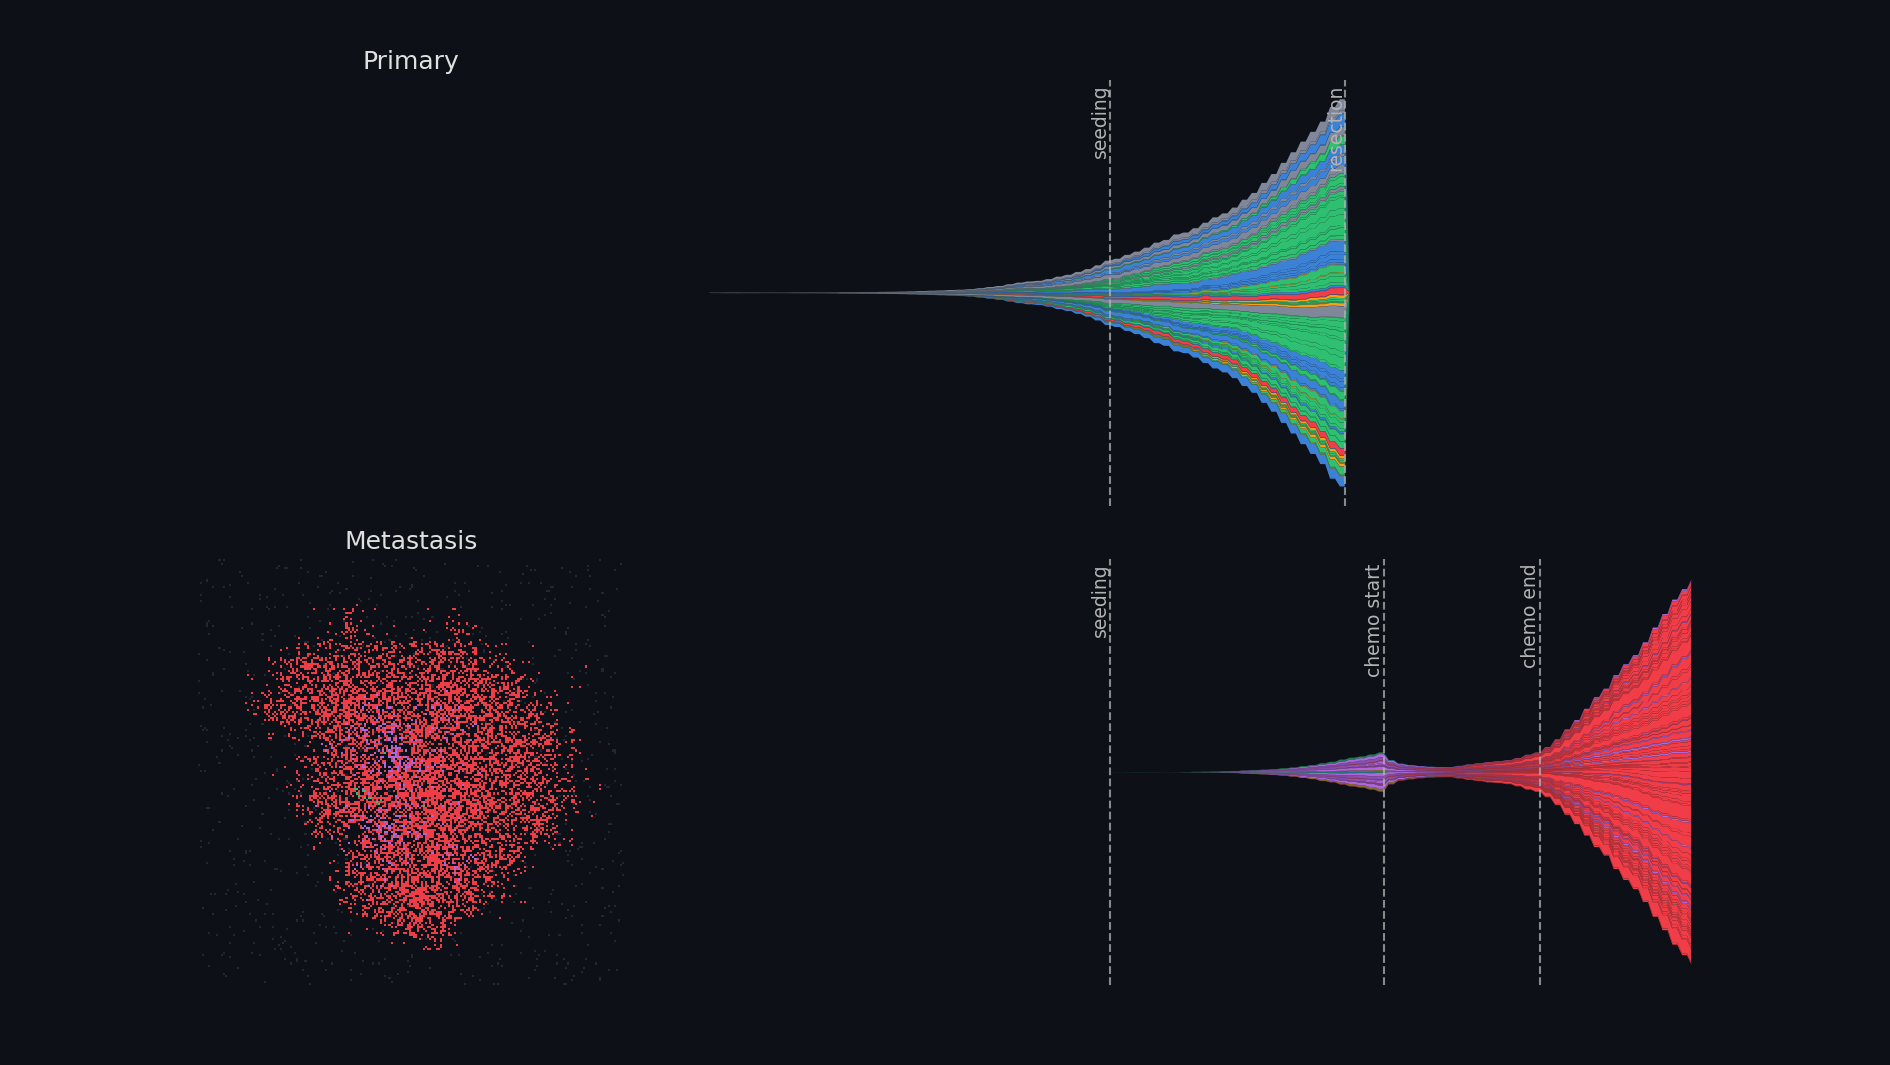
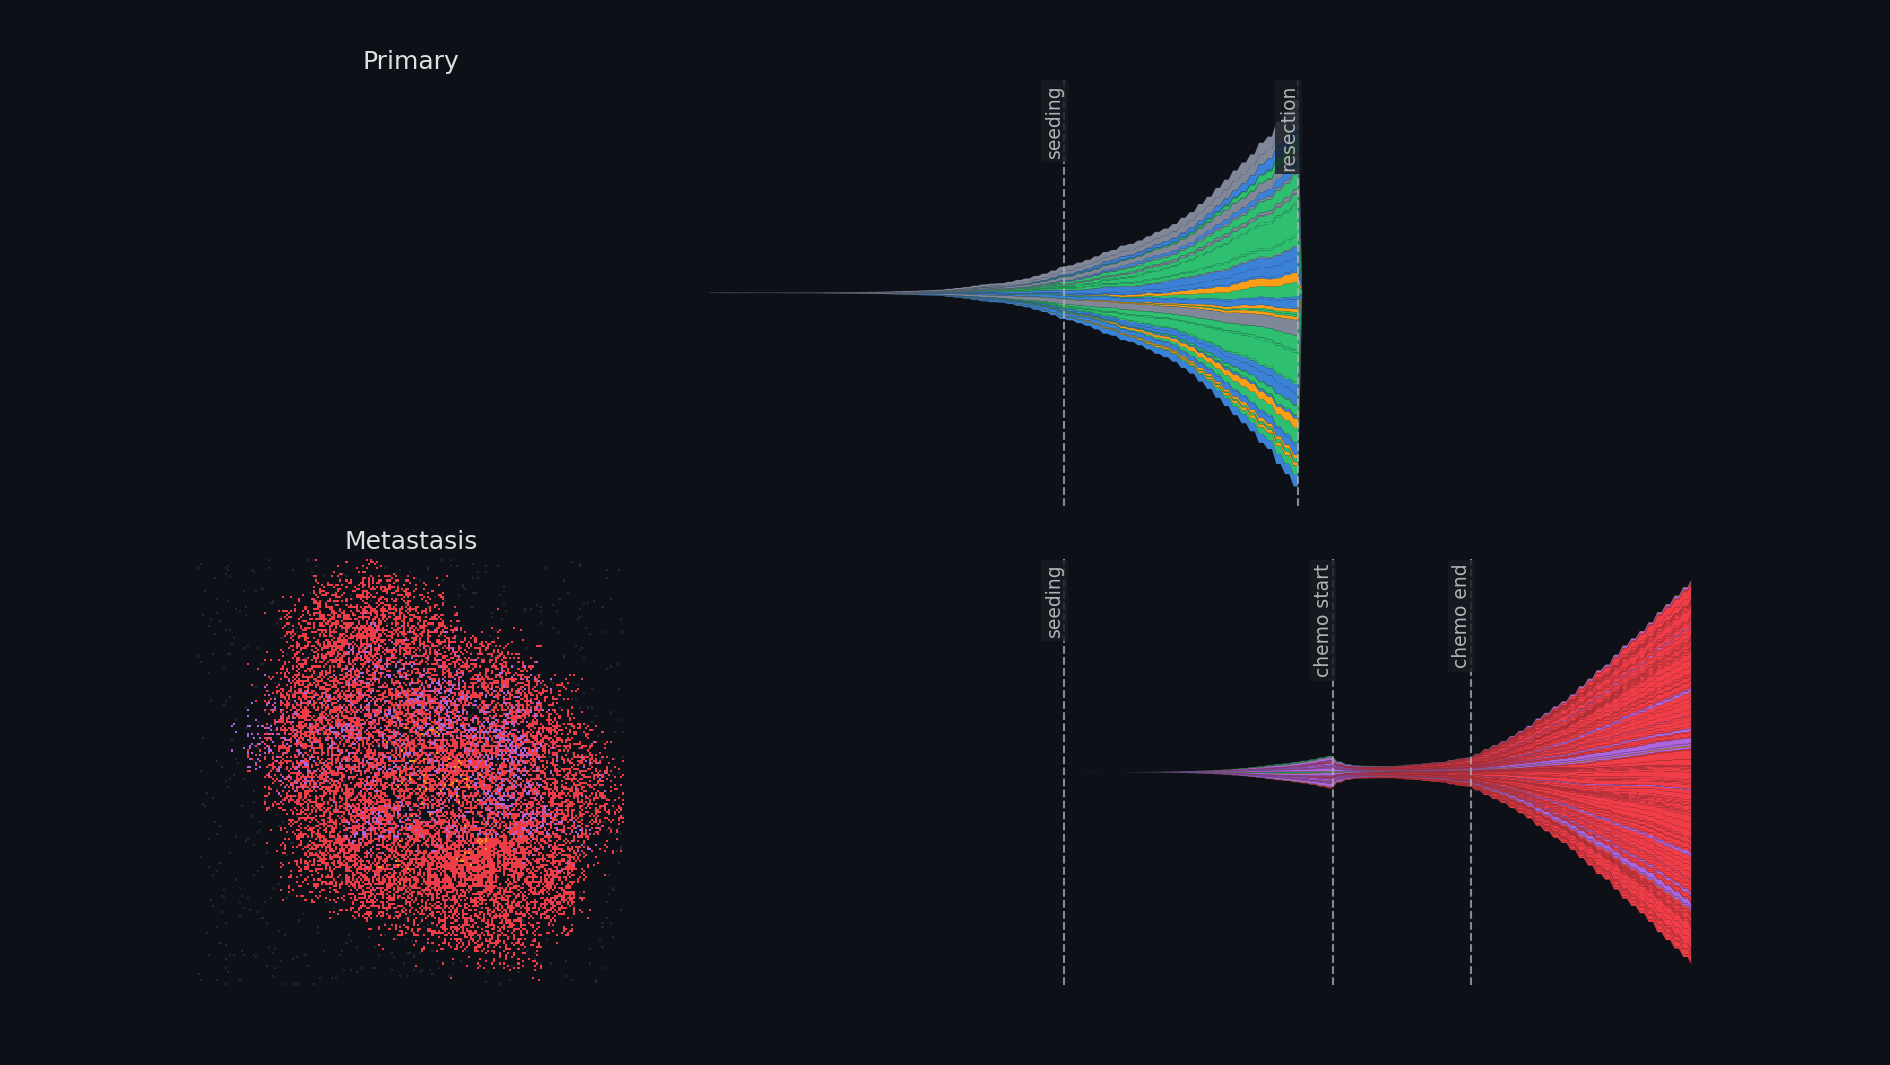
docs(site): splash hero — grow the metastasis (bigger deposit + long red relapse) and make event labels legible
Continues the splash-hero met-establishment/chemo batch (9c9da73):

* The metastasis now GROWS visibly. It is grown to a substantial PURPLE deposit before resection
  (met target 500->800; still ~75% met_survival / ~8% green, primary still stromal-dominant), and the
  single surviving resistant (RED) clone relapses for a long stretch after chemo (relapse 16->26 steps),
  refilling the met grid to ~13.8k cells (final met ~88% resistance, 0% green; grid↔Muller still match).
  The extra generations are absorbed by trimming CADENCE, not dynamics: every 2nd generation is captured
  only during the pre-seeding primary-fill (near-empty met grid), so the arc still fits the size budget.

* Event labels are now LEGIBLE over the coloured Muller streams: each label gets a semi-opaque panel-bg
  box (#161b22, alpha 0.82) drawn above the bands and below the reveal cursor — fixes the "resection"
  label on the primary fish and the "chemo start/end" labels on the met fish. Text stays neutral grey.

Final GIF: 1890x1065, 95 frames, ~160 ms/frame (~6.2 fps, ~15.2 s loop), 5.75 MB. Everything else in the
batch preserved (grid↔Muller colour match, equal grid resolution, met-survival bottleneck / no green in
met or surviving chemo, single-red-clone relapse, per-panel annotations, grey text, DCIS-first ordering).
Splash-only; general labelled path unaffected. No src/ changes (suite 622 green); mkdocs --strict clean.

diff --git a/notebooks/landing_animation.py b/notebooks/landing_animation.py
@@ -200,18 +200,24 @@ def grow_arc():
 
     capture("growth")
     seeding_snap = None
+    gi = 0
     while True:
         p, m = compartment_cancer(t)
-        # grow the met to a decent PURPLE deposit before resection: the met_survival clone keeps
-        # outcompeting the transient green stromal seeders as it grows (55%->60%+ met by ~500 cells),
-        # so a bigger deposit reads clearly as the purple establishment sweep. Bounded by p+m so the
-        # primary doesn't run away (its met_survival drift would eventually re-purple it).
-        if m >= 500 or p + m >= 8500:
+        # grow the met to a SUBSTANTIAL purple deposit before resection: the met_survival clone keeps
+        # outcompeting the transient green stromal seeders as it grows (stays ~75% met, ~8% green up to
+        # ~1200 cells) while the primary stays stromal-dominant, so a bigger deposit reads clearly as the
+        # purple establishment sweep and fills the met grid. Bounded by p+m so the primary can't run away.
+        if m >= 800 or p + m >= 11000:
             break
-        t.grow(n_steps=1, seed=SEED)            # fine cadence -> a smooth DCIS -> IDC -> seeding arc
+        t.grow(n_steps=1, seed=SEED)            # dynamics ALWAYS advance one generation (calibration-stable)
         if seeding_snap is None and compartment_cancer(t)[1] > 0:
             seeding_snap = len(t.traces)
-        capture("growth" if seeding_snap is None else "metastatic seeding")
+        gi += 1
+        # cadence trim (NOT a dynamics change): capture only every 2nd generation while the met has not
+        # yet seeded (primary-only duct-filling — low interest, near-empty met grid), keeping the file
+        # small; capture EVERY generation once the met exists so establishment/growth stays smooth.
+        if seeding_snap is not None or gi % 2 == 0:
+            capture("growth" if seeding_snap is None else "metastatic seeding")
 
     resect_snap = len(t.traces)
     t.grow(n_steps=1, seed=SEED, treatment=Surgery(start=t.step, site="primary"))
@@ -231,8 +237,8 @@ def grow_arc():
         t.grow(n_steps=1, seed=SEED, treatment=chemo)
         capture("chemotherapy")
     chemo_end_snap = len(t.traces)
-    for _ in range(16):                         # relapse: the single resistant clone re-expands (red)
-        t.grow(n_steps=1, seed=SEED)
+    for _ in range(26):                         # relapse: the single resistant (red) clone re-expands
+        t.grow(n_steps=1, seed=SEED)            # for a good stretch, refilling the met grid
         capture("relapse")
 
     marks = [(seeding_snap, "seeding"), (resect_snap, "resection"),
@@ -308,6 +314,11 @@ def build_figure(t, marks, colors, splash=False):
             ln.set_color(SPLASH_LABEL if splash else SUBINK); ln.set_alpha(0.75)
         for txt in ax.texts:                     # event labels: neutral grey (no blue cast) for the splash
             txt.set_color(SPLASH_LABEL if splash else INK); txt.set_fontsize(9 if splash else 8.5)
+            if splash:
+                # legibility: a semi-opaque panel-bg box behind each label so it reads over the coloured
+                # streams (e.g. "resection" on the primary fish, "chemo start/end" on the met fish).
+                txt.set_bbox(dict(facecolor=PANEL, alpha=0.82, edgecolor="none", pad=1.8))
+                txt.set_zorder(4)                # above the stream bands, below the reveal cursor
         if splash:
             ax.axis("off")                       # NO axis chrome whatsoever (no spines/ticks/labels);
             #                                      the bands + event vlines + their text still render.
